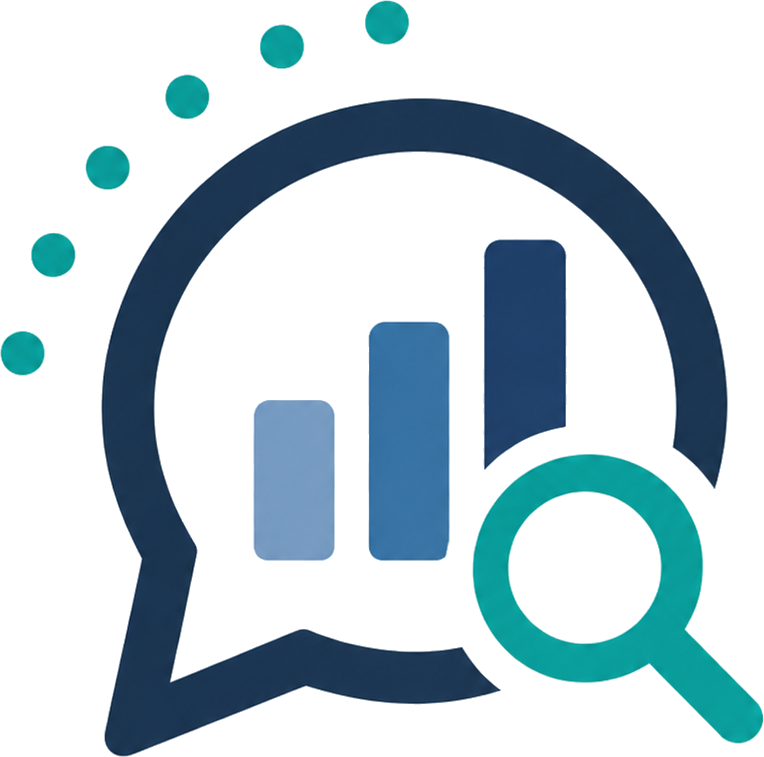
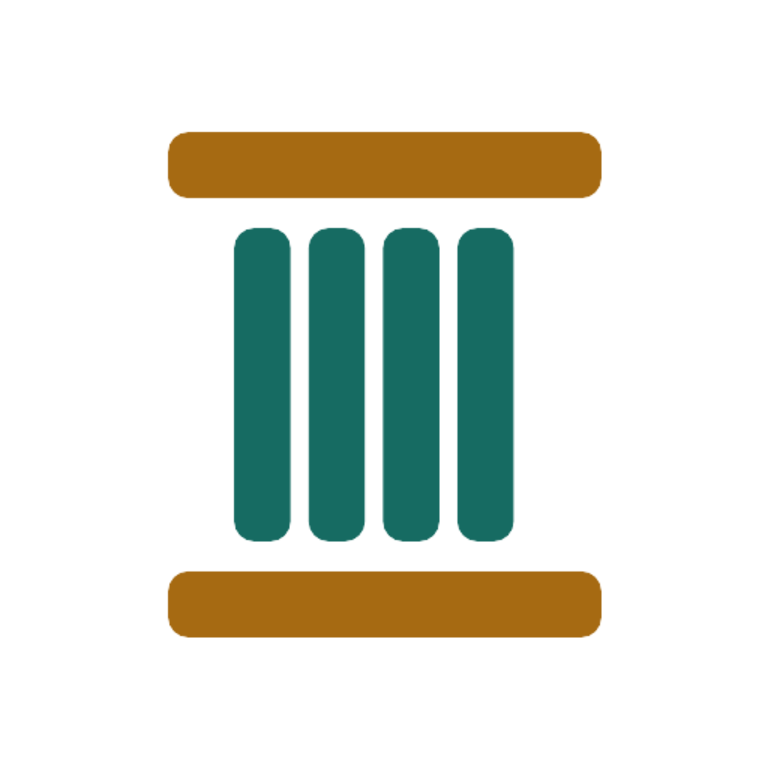
feat(brand): rebrand "IPEDS Query" → "IPEDS Oracle" with a new mark & inline wordmark (#104)
New visual identity in the app's own Reading Room / Ink-and-Vellum language,
replacing the old navy chat-bubble mark that predated the redesign.

- Wordmark is now an inline SVG + type lockup (frontend/src/Wordmark.jsx) drawn
  from the theme tokens — mono "IPEDS" (the data source) · ochre hairline · serif
  "Oracle" (the answer) · the Column mark. Light/dark comes from ONE source, so the
  wordmark.png / wordmark-dark.png PNG pair is gone. Accessible name "IPEDS Oracle".
- New icon: a classical fluted Column (teal ink shaft between ochre capital & base),
  vector master at brand/icon.svg; favicons regenerated from it (favicon.ico,
  favicon-32, apple-touch), verified legible at 16/32px on light and dark tabs.
- Product name renamed centrally via PRODUCT_NAME in config.py, which cascades to
  the FastAPI title and every email; plus the page <title>, the Verify sign-in
  copy, and the mail_from default.
- Docs synced (CLAUDE.md brand bullet, brand/README recipe, README/CONTRIBUTING/
  DEPLOY headings). e2e accessible-name assertions updated to "IPEDS Oracle".

Claude-Session: https://claude.ai/code/session_01YYN6S4mxDoRUikt1H8ktBn

diff --git a/frontend/src/Wordmark.jsx b/frontend/src/Wordmark.jsx
@@ -1,0 +1,30 @@
+// The "IPEDS Oracle" wordmark — an inline SVG + type lockup rendered straight
+// from the app's theme tokens, so light and dark come from ONE source (no more
+// wordmark.png / wordmark-dark.png pair). The Column mark (--accent shaft between
+// --ochre capital & base) sits beside mono "IPEDS" (the data source / the
+// machine), an ochre hairline, and serif "Oracle" (the answer) — the app's own
+// figure device. Scale is driven by the container's font-size (see .brand
+// .wordmark / .login .wordmark in styles.css).
+//
+// role="img" + aria-label gives the whole lockup one accessible name; the inner
+// text and mark are aria-hidden so a screen reader hears "IPEDS Oracle" once,
+// not "IPEDS" then "Oracle" as separate strings.
+export default function Wordmark() {
+  return (
+    <span className="wordmark" role="img" aria-label="IPEDS Oracle">
+      <svg className="wm-icon" viewBox="0 0 64 64" aria-hidden="true" focusable="false">
+        <rect className="wm-cap" x="14" y="11" width="36" height="5.4" rx="1.6" />
+        <g className="wm-shaft">
+          <rect x="19.5" y="19" width="4.6" height="26" rx="1.6" />
+          <rect x="25.7" y="19" width="4.6" height="26" rx="1.6" />
+          <rect x="31.9" y="19" width="4.6" height="26" rx="1.6" />
+          <rect x="38.1" y="19" width="4.6" height="26" rx="1.6" />
+        </g>
+        <rect className="wm-cap" x="14" y="47.6" width="36" height="5.4" rx="1.6" />
+      </svg>
+      <span className="wm-ipeds" aria-hidden="true">IPEDS</span>
+      <span className="wm-div" aria-hidden="true" />
+      <span className="wm-oracle" aria-hidden="true">Oracle</span>
+    </span>
+  );
+}

diff --git a/frontend/src/styles.css b/frontend/src/styles.css
@@ -124,18 +124,24 @@ h1, h2, h3, .md h1, .md h2, .md h3 {
   border-bottom: 1px solid var(--line); background: var(--panel);
 }
 .brand { display: flex; align-items: center; }
-/* Wordmark logo (transparent PNG, no built-in padding). Swaps to a light-text
-   variant on dark backgrounds where the navy lettering would otherwise vanish.
-   Sized by height; width follows the source aspect ratio. */
+/* "IPEDS Oracle" wordmark — an inline SVG + type lockup (see Wordmark.jsx) drawn
+   from the theme tokens, so light/dark is automatic (no PNG pair to swap). Scale
+   is set by the container's font-size: the serif "Oracle" is 1em, everything else
+   sizes off it. */
 .wordmark {
-  display: block; aspect-ratio: 924 / 200;
-  background: url(./assets/wordmark.png) left center / contain no-repeat;
+  display: inline-flex; align-items: center; gap: .46em; line-height: 1;
+  font-size: 20px; white-space: nowrap; user-select: none;
 }
-:root[data-theme="dark"] .wordmark { background-image: url(./assets/wordmark-dark.png); }
-@media (prefers-color-scheme: dark) {
-  :root:not([data-theme]) .wordmark { background-image: url(./assets/wordmark-dark.png); }
+.wm-icon { height: 1.5em; width: 1.5em; flex: none; display: block; }
+.wm-icon .wm-shaft rect { fill: var(--accent); }
+.wm-icon .wm-cap { fill: var(--ochre); }
+.wm-ipeds {
+  font-family: var(--mono); font-weight: 600; font-size: .62em;
+  letter-spacing: .13em; color: var(--muted); text-transform: uppercase;
 }
-.brand .wordmark { height: 26px; }
+.wm-div { width: 2px; height: 1em; background: var(--ochre); border-radius: 2px; margin: 0 .06em; flex: none; }
+.wm-oracle { font-family: var(--serif); font-weight: 600; font-size: 1em; color: var(--accent); letter-spacing: -.01em; }
+.brand .wordmark { font-size: 20px; }
 .tabs { display: flex; gap: 6px; }
 .tabs a, .subtabs a {
   background: transparent; border: 1px solid transparent; color: var(--muted);
@@ -180,7 +186,7 @@ h1, h2, h3, .md h1, .md h2, .md h3 {
 .login { max-width: 440px; width: 100%; }
 .door-right { justify-self: stretch; }
 .login h1 { margin: 0 0 10px; }
-.login .wordmark { height: 40px; }
+.login .wordmark { font-size: 30px; }
 .door-fineprint { margin: 14px 0 0; }
 .login form { display: flex; flex-direction: column; gap: 10px; margin: 18px 0 4px; }
 .login input, .composer textarea, .row input, .row select {

diff --git a/frontend/e2e/branding.spec.js b/frontend/e2e/branding.spec.js
@@ -1,6 +1,6 @@
 import { test, expect } from "@playwright/test";
 
-// The wordmark logo replaces the plain "IPEDS Query" text on the login screen.
+// The wordmark logo replaces the plain "IPEDS Oracle" text on the login screen.
 // It's an image with an accessible name so screen readers still announce the
 // brand.
 
@@ -8,7 +8,7 @@ test("login screen shows the wordmark with an accessible name", async ({ page })
   await page.route("**/api/auth/me", (r) => r.fulfill({ status: 401, body: "{}" }));
   await page.goto("/");
   // the wordmark carries the brand's accessible name (role=img + aria-label)
-  await expect(page.getByRole("img", { name: "IPEDS Query" })).toBeVisible();
-  // and the heading's accessible name is still "IPEDS Query" (from the wordmark)
-  await expect(page.getByRole("heading", { name: "IPEDS Query" })).toBeVisible();
+  await expect(page.getByRole("img", { name: "IPEDS Oracle" })).toBeVisible();
+  // and the heading's accessible name is still "IPEDS Oracle" (from the wordmark)
+  await expect(page.getByRole("heading", { name: "IPEDS Oracle" })).toBeVisible();
 });

diff --git a/frontend/src/Verify.jsx b/frontend/src/Verify.jsx
@@ -1,5 +1,6 @@
 import React, { useEffect, useState } from "react";
 import { api } from "./api.js";
+import Wordmark from "./Wordmark.jsx";
 
 // Sign-in confirmation page (route: /verify?token=…). The magic-link email
 // points here. We do NOT consume the token on load — a deliberate click POSTs
@@ -53,7 +54,7 @@ export default function Verify() {
   return (
     <div className="center">
       <div className="card login">
-        <h1><span className="wordmark" role="img" aria-label="IPEDS Query" /></h1>
+        <h1><Wordmark /></h1>
         {state === "loading" && (
           <p className="muted">Checking your sign-in link…</p>
         )}
@@ -68,7 +69,7 @@ export default function Verify() {
         {(state === "ready" || state === "signing") && (
           <>
             <p>
-              Sign in to IPEDS Query as <strong>{email}</strong>?
+              Sign in to IPEDS Oracle as <strong>{email}</strong>?
             </p>
             <button onClick={signIn} disabled={state === "signing"}>
               {state === "signing" ? "Signing in…" : "Sign in"}

diff --git a/frontend/src/App.jsx b/frontend/src/App.jsx
@@ -7,6 +7,7 @@ import { AdminRoute } from "./Admin.jsx";
 import Verify from "./Verify.jsx";
 import { ToastProvider } from "./Toast.jsx";
 import { ConfirmProvider } from "./ConfirmModal.jsx";
+import Wordmark from "./Wordmark.jsx";
 import { attentionTotal, formatBadge } from "./attention.js";
 
 // How often the Shell re-polls the admin attention counts. Long enough to be
@@ -177,7 +178,7 @@ function Shell() {
         {routeAnnounce}
       </div>
       <header className="topbar">
-        <div className="brand"><span className="wordmark" role="img" aria-label="IPEDS Query" /></div>
+        <div className="brand"><Wordmark /></div>
         <nav className="tabs" aria-label="Primary">
           <Link to="/" className={onAdmin ? "" : "on"} aria-current={onAdmin ? undefined : "page"}>Chat</Link>
           {user.is_admin && (() => {

diff --git a/frontend/src/Login.jsx b/frontend/src/Login.jsx
@@ -1,5 +1,6 @@
 import React, { useEffect, useRef, useState } from "react";
 import { api } from "./api.js";
+import Wordmark from "./Wordmark.jsx";
 
 // Shown until the server tells us the institution's domain, and if it never does.
 const FALLBACK_HINT = "[email redacted]";
@@ -61,7 +62,7 @@ export default function Login() {
 
         {/* Right: the reader's card. */}
         <div className="card login door-right">
-          <h1><span className="wordmark" role="img" aria-label="IPEDS Query" /></h1>
+          <h1><Wordmark /></h1>
           <p className="muted">
             Access is by invitation. We&apos;ll email a one-time sign-in link —
             no password to remember.

diff --git a/frontend/e2e/a11y.spec.js b/frontend/e2e/a11y.spec.js
@@ -195,7 +195,7 @@ test.describe("axe smoke scan", () => {
     await mockMe(page, null);
     await mockAuthConfig(page, "");
     await page.goto("/");
-    await expect(page.getByRole("heading", { name: "IPEDS Query" })).toBeVisible();
+    await expect(page.getByRole("heading", { name: "IPEDS Oracle" })).toBeVisible();
 
     const results = await new AxeBuilder({ page }).analyze();
     const critical = results.violations.filter((v) => v.impact === "critical");

diff --git a/frontend/e2e/app-shell-roles.spec.js b/frontend/e2e/app-shell-roles.spec.js
@@ -37,7 +37,7 @@ test.describe("app shell / roles", () => {
     // directly (it does not re-call /api/auth/me), so Login renders immediately.
     await page.getByRole("button", { name: "Sign out" }).click();
 
-    await expect(page.getByRole("heading", { name: "IPEDS Query" })).toBeVisible();
+    await expect(page.getByRole("heading", { name: "IPEDS Oracle" })).toBeVisible();
     expect(logout.calls.length).toBe(1);
   });
 });

diff --git a/frontend/e2e/auth-login.spec.js b/frontend/e2e/auth-login.spec.js
@@ -11,7 +11,7 @@ test.describe("auth / login", () => {
 
     await page.goto("/");
 
-    await expect(page.getByRole("heading", { name: "IPEDS Query" })).toBeVisible();
+    await expect(page.getByRole("heading", { name: "IPEDS Oracle" })).toBeVisible();
     await expect(
       page.getByText("Access is by invitation.", { exact: false })
     ).toBeVisible();

diff --git a/frontend/index.html b/frontend/index.html
@@ -6,7 +6,7 @@
     <link rel="icon" href="/favicon.ico" sizes="any" />
     <link rel="icon" type="image/png" sizes="32x32" href="/favicon-32.png" />
     <link rel="apple-touch-icon" href="/apple-touch-icon.png" />
-    <title>IPEDS Query</title>
+    <title>IPEDS Oracle</title>
   </head>
   <body>
     <div id="root"></div>

diff --git a/backend/app/config.py b/backend/app/config.py
@@ -21,7 +21,7 @@ ROOT = Path(__file__).resolve().parents[2]
 # (transactional emails, the FastAPI app title) instead of a per-install
 # setting. config.py is the only app/ module that imports nothing from app,
 # so importing this constant elsewhere never risks a cycle.
-PRODUCT_NAME = "IPEDS Query"
+PRODUCT_NAME = "IPEDS Oracle"
 
 # Values (case-insensitive, whitespace-trimmed) that turn an opt-in string
 # setting ON. Everything else — "false"/"f"/"no"/"n"/"0", blank, and any
@@ -148,7 +148,7 @@ class Settings(BaseSettings):
 
     # --- Email (Resend) ----------------------------------------------------
     resend_api_key: str = Field(default="")
-    mail_from: str = Field(default="IPEDS Query <[email redacted]>")
+    mail_from: str = Field(default="IPEDS Oracle <[email redacted]>")
     # Where "request access" notifications are sent (defaults to first admin).
     access_request_to: str = Field(default="")
 

diff --git a/backend/app/main.py b/backend/app/main.py
@@ -54,7 +54,7 @@ async def lifespan(app: FastAPI):
             log.info("re-embedded %d skill(s) onto the headline+description embedding source", n)
     except Exception as e:  # noqa: BLE001
         log.warning("skill re-embed skipped: %s", e)
-    log.info("IPEDS Query API ready (db=%s)", get_settings().ipeds_db_path)
+    log.info("IPEDS Oracle API ready (db=%s)", get_settings().ipeds_db_path)
     yield
 
 